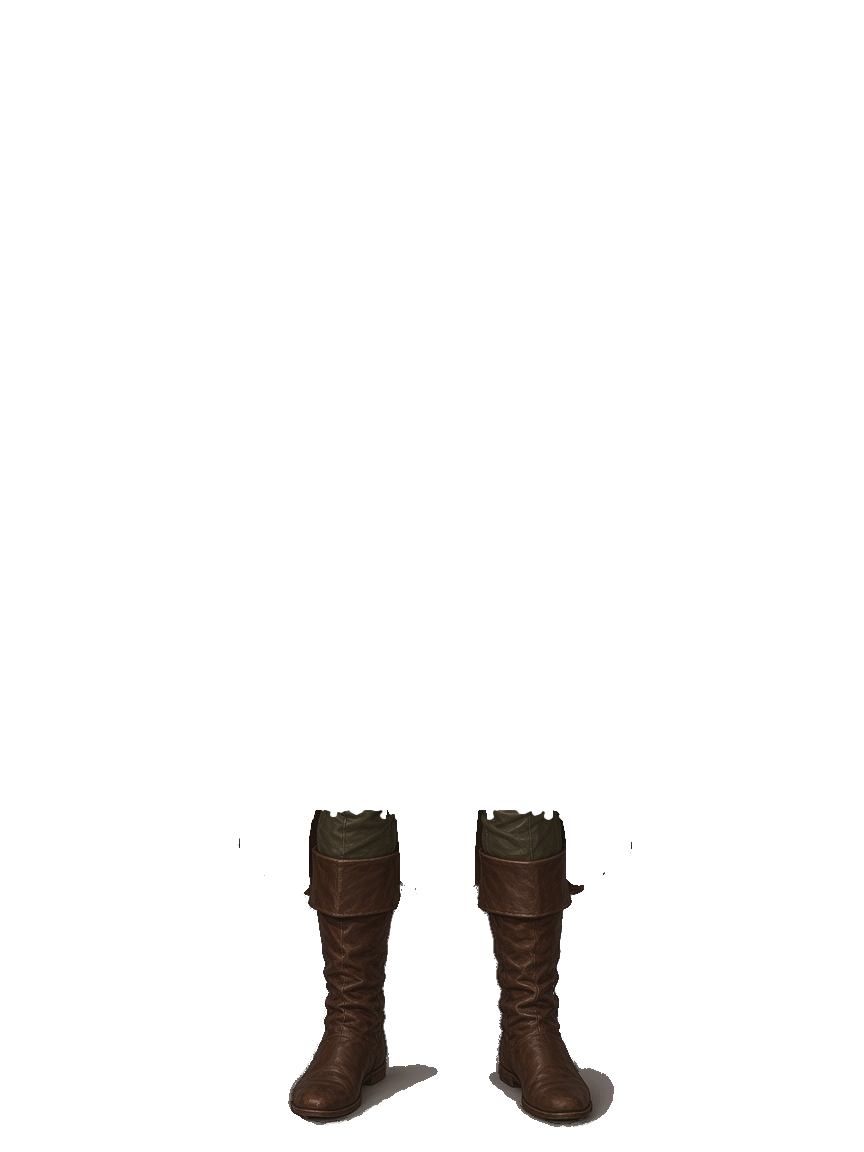
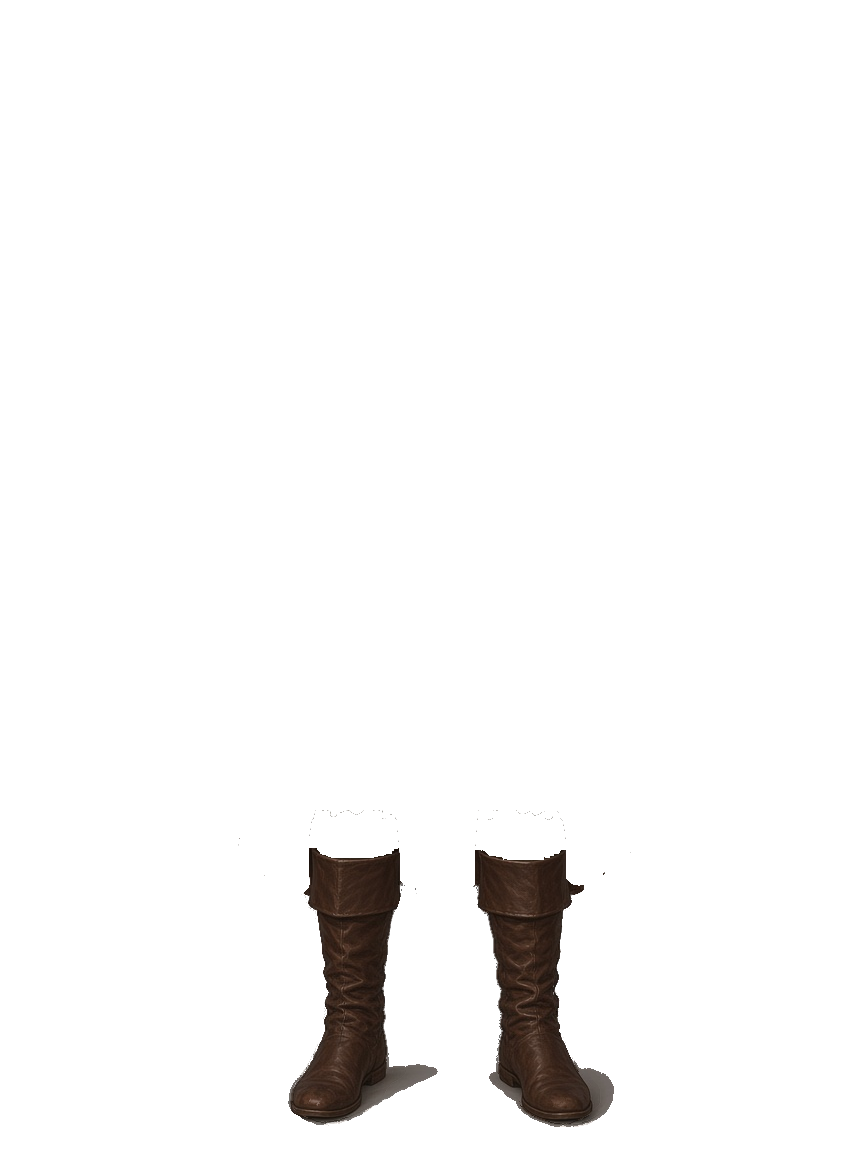
Leather tester: pants complete from waist to boot top when mixing tiers
- Masterwork/common male pants: the tunic covered the upper thighs, so the cut
  pants started mid-thigh (base shorts showed under a shorter tunic). Tunic
  hem/shadow/side tab left in the pants moved to the chest; hidden upper pants
  synthesized from the visible pants up to the waist line, only where the own
  chest hides it.
- Pants fabric bunched above the boot cuff moved from common/masterwork boots
  to pants; new/extended <g>-pants-under.png (masterwork + common) continue the
  pants down to the lowest other-tier boot top, hidden by every tier's boots.
- Tester: PANTS_UNDERLAP = masterwork, common. LAYER_V 20261117-pants-full.
- Full sets unchanged apart from the chest hem's 1px soft edge (now over pants).

Changed region(s): [[0.5312, 0.6875, 0.6562, 0.75], [0.3438, 0.6875, 0.4688, 0.75]]

diff --git a/dolltest/v5/layers.html b/dolltest/v5/layers.html
@@ -129,11 +129,12 @@
     let face = 1;      // 0 = original baked head, 1-10 = new head layers
     let hair = 1;      // 0 = none, 1-10
     // Bump this whenever layer PNGs change so iOS Safari does not keep stale tiles.
-    const LAYER_V = "20261117-glove-clip";
+    const LAYER_V = "20261117-pants-full";
     const ONBASE = ["common", "masterwork"];  // tiers cut from Art's on-base paintings
     // Tiers with hidden pants/boots underlaps (drawn only when both are on) so mixing
     // with another tier's boots or pants does not leave a strip of bare leg.
-    const UNDERLAP = ["masterwork"];
+    const UNDERLAP = ["masterwork"];               // tiers with <g>-boots-under.png
+    const PANTS_UNDERLAP = ["masterwork", "common"]; // tiers with <g>-pants-under.png
     const H = "heads/layers/";
 
     const $ = (id) => document.getElementById(id);
@@ -212,7 +213,7 @@
       const both = pick.pants && pick.boots;
       show("layer-bootsunder", both && UNDERLAP.includes(pick.boots)
         ? v("leather/" + pick.boots + "/layers/" + g + "-boots-under.png") : "");
-      show("layer-pantsunder", both && UNDERLAP.includes(pick.pants)
+      show("layer-pantsunder", both && PANTS_UNDERLAP.includes(pick.pants)
         ? v("leather/" + pick.pants + "/layers/" + g + "-pants-under.png") : "");
       const occl = OCCLUDE_SLOTS.filter((s) => pick[s]).map((s) => v("occlude/" + g + "-" + s + ".png"));
       // Gloves worn over another tier's chest: punch the glove tier's clip mask
